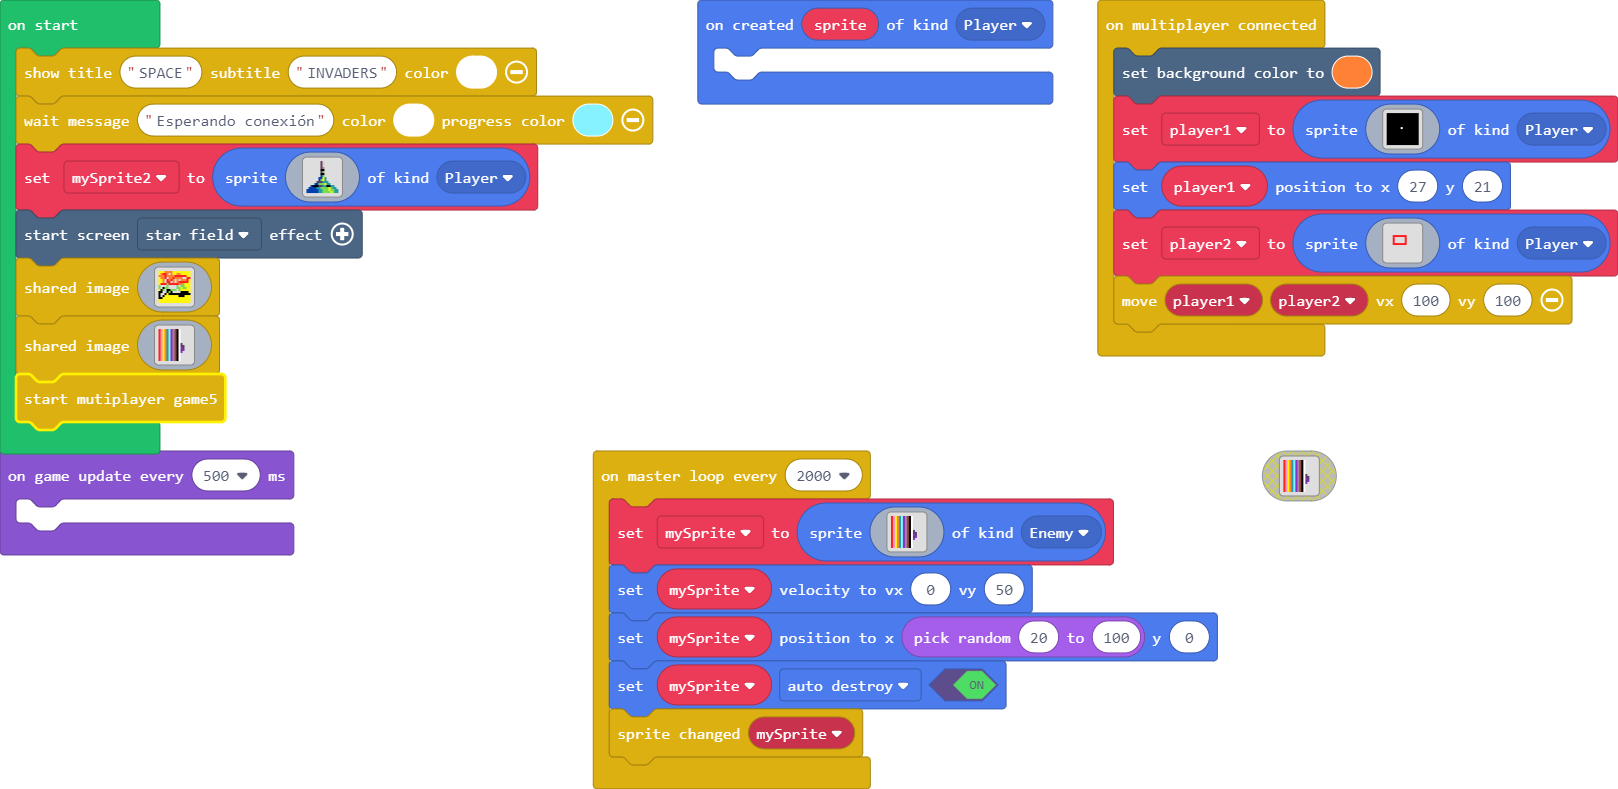
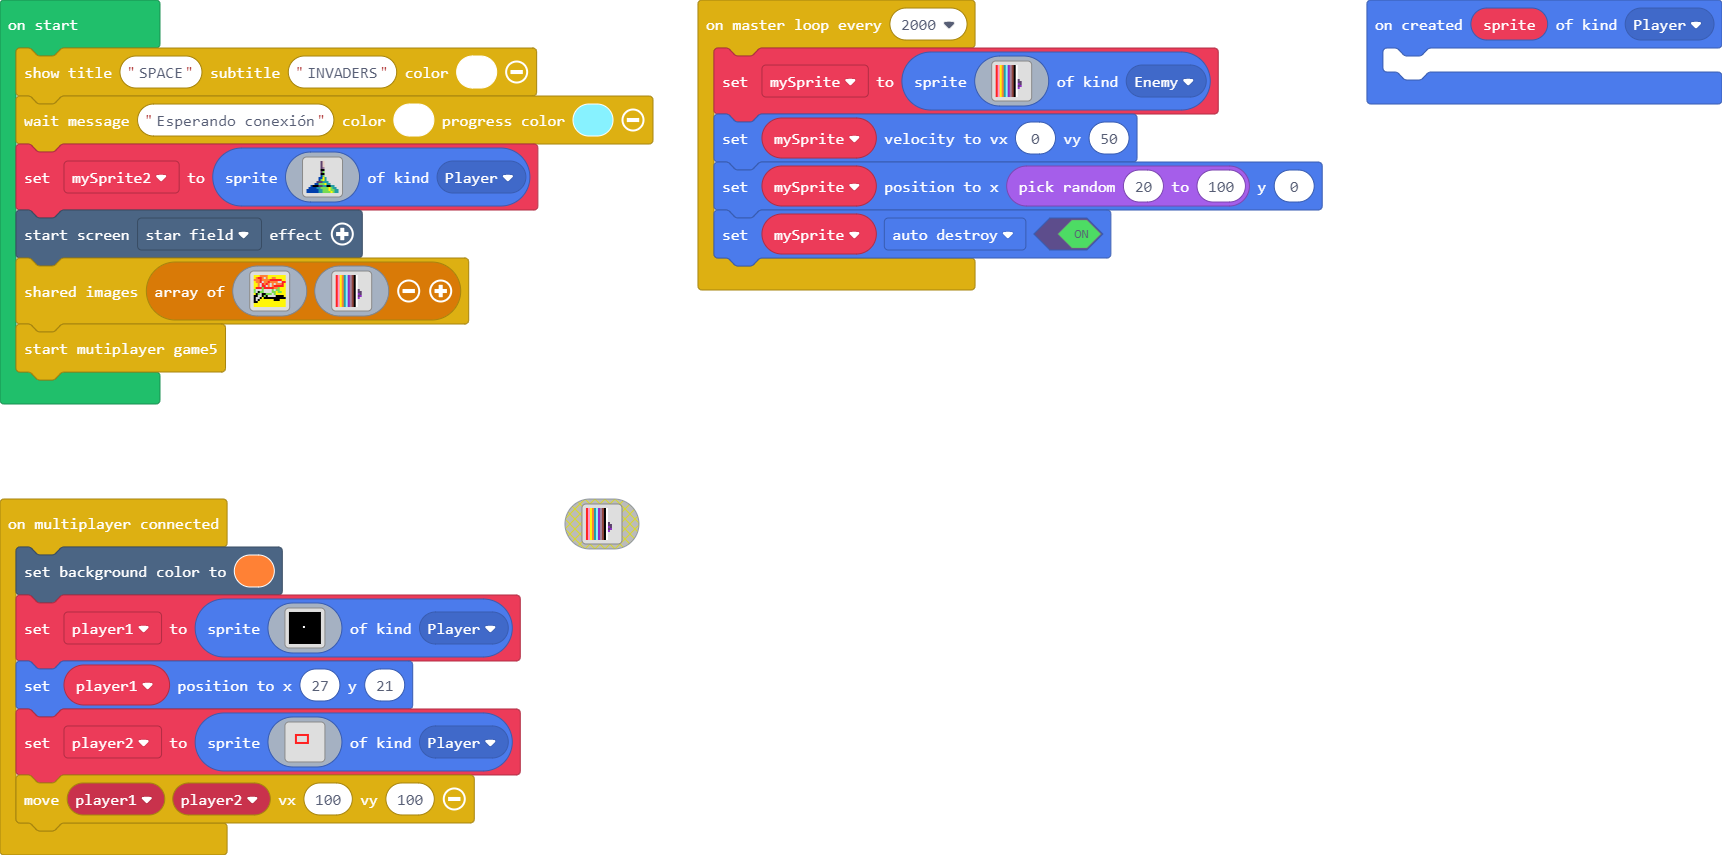
Update pxt.json, main.blocks, main.ts, multiplayer.ts

diff --git a/main.ts b/main.ts
@@ -1,26 +1,25 @@
 multiplayer.onMasterLoop(2000, function () {
     mySprite = sprites.create(img`
-        2 3 5 4 6 9 a b e f 1 . . . . .
-        2 3 5 4 6 9 a b e f 1 . . . . .
-        2 3 5 4 6 9 a b e f 1 . . . . .
-        2 3 5 4 6 9 a b e f 1 . . . . .
-        2 3 5 4 6 9 a b e f 1 . . . . .
-        2 3 5 4 6 9 a b e f 1 . . . . .
-        2 3 5 4 6 9 a b e f 1 . . . . .
-        2 3 5 4 6 9 a b e f 1 c . . . .
-        2 3 5 4 6 9 a b e f 1 c c . . .
-        2 3 5 4 6 9 a b e f 1 a c . . .
-        2 3 5 4 6 9 a b e f 1 c a . . .
-        2 3 5 4 6 9 a b e f 1 a . . . .
-        2 3 5 4 6 9 a b e f 1 . . . . .
-        2 3 5 4 6 9 a b e f 1 . . . . .
-        2 3 5 4 6 9 a b e f 1 . . . . .
-        2 3 5 4 6 9 a b e f 1 . . . . .
-    `, SpriteKind.Enemy)
+2 3 5 4 6 9 a b e f 1 . . . . . 
+2 3 5 4 6 9 a b e f 1 . . . . . 
+2 3 5 4 6 9 a b e f 1 . . . . . 
+2 3 5 4 6 9 a b e f 1 . . . . . 
+2 3 5 4 6 9 a b e f 1 . . . . . 
+2 3 5 4 6 9 a b e f 1 . . . . . 
+2 3 5 4 6 9 a b e f 1 . . . . . 
+2 3 5 4 6 9 a b e f 1 c . . . . 
+2 3 5 4 6 9 a b e f 1 c c . . . 
+2 3 5 4 6 9 a b e f 1 a c . . . 
+2 3 5 4 6 9 a b e f 1 c a . . . 
+2 3 5 4 6 9 a b e f 1 a . . . . 
+2 3 5 4 6 9 a b e f 1 . . . . . 
+2 3 5 4 6 9 a b e f 1 . . . . . 
+2 3 5 4 6 9 a b e f 1 . . . . . 
+2 3 5 4 6 9 a b e f 1 . . . . . 
+`, SpriteKind.Enemy)
     mySprite.setVelocity(0, 50)
     mySprite.setPosition(Math.randomRange(20, 100), 0)
     mySprite.setFlag(SpriteFlag.AutoDestroy, true)
-    multiplayer.spriteChanged(mySprite)
 })
 sprites.onCreated(SpriteKind.Player, function (sprite) {
 	
@@ -28,42 +27,42 @@ sprites.onCreated(SpriteKind.Player, function (sprite) {
 multiplayer.onConnected(function () {
     scene.setBackgroundColor(4)
     player1 = sprites.create(img`
-        f f f f f f f f f f f f f f f f
-        f f f f f f f f f f f f f f f f
-        f f f f f f f f f f f f f f f f
-        f f f f f f f f f f f f f f f f
-        f f f f f f f f f f f f f f f f
-        f f f f f f f f f f f f f f f f
-        f f f f f f f f f f f f f f f f
-        f f f f f f f 1 f f f f f f f f
-        f f f f f f f f f f f f f f f f
-        f f f f f f f f f f f f f f f f
-        f f f f f f f f f f f f f f f f
-        f f f f f f f f f f f f f f f f
-        f f f f f f f f f f f f f f f f
-        f f f f f f f f f f f f f f f f
-        f f f f f f f f f f f f f f f f
-        f f f f f f f f f f f f f f f f
-    `, SpriteKind.Player)
+f f f f f f f f f f f f f f f f 
+f f f f f f f f f f f f f f f f 
+f f f f f f f f f f f f f f f f 
+f f f f f f f f f f f f f f f f 
+f f f f f f f f f f f f f f f f 
+f f f f f f f f f f f f f f f f 
+f f f f f f f f f f f f f f f f 
+f f f f f f f 1 f f f f f f f f 
+f f f f f f f f f f f f f f f f 
+f f f f f f f f f f f f f f f f 
+f f f f f f f f f f f f f f f f 
+f f f f f f f f f f f f f f f f 
+f f f f f f f f f f f f f f f f 
+f f f f f f f f f f f f f f f f 
+f f f f f f f f f f f f f f f f 
+f f f f f f f f f f f f f f f f 
+`, SpriteKind.Player)
     player1.setPosition(27, 21)
     player2 = sprites.create(img`
-        . . . . . . . . . . . . . . . .
-        . . . . . . . . . . . . . . . .
-        . . . . . . . . . . . . . . . .
-        . . . . . . . . . . . . . . . .
-        . . . 2 2 2 2 2 2 2 . . . . . .
-        . . . 2 . . . . . 2 . . . . . .
-        . . . 2 . . . . . 2 . . . . . .
-        . . . 2 . . . . . 2 . . . . . .
-        . . . 2 2 2 2 2 2 2 . . . . . .
-        . . . . . . . . . . . . . . . .
-        . . . . . . . . . . . . . . . .
-        . . . . . . . . . . . . . . . .
-        . . . . . . . . . . . . . . . .
-        . . . . . . . . . . . . . . . .
-        . . . . . . . . . . . . . . . .
-        . . . . . . . . . . . . . . . .
-    `, SpriteKind.Player)
+. . . . . . . . . . . . . . . . 
+. . . . . . . . . . . . . . . . 
+. . . . . . . . . . . . . . . . 
+. . . . . . . . . . . . . . . . 
+. . . 2 2 2 2 2 2 2 . . . . . . 
+. . . 2 . . . . . 2 . . . . . . 
+. . . 2 . . . . . 2 . . . . . . 
+. . . 2 . . . . . 2 . . . . . . 
+. . . 2 2 2 2 2 2 2 . . . . . . 
+. . . . . . . . . . . . . . . . 
+. . . . . . . . . . . . . . . . 
+. . . . . . . . . . . . . . . . 
+. . . . . . . . . . . . . . . . 
+. . . . . . . . . . . . . . . . 
+. . . . . . . . . . . . . . . . 
+. . . . . . . . . . . . . . . . 
+`, SpriteKind.Player)
     multiplayer.movePlayers(player1, player2, 100, 100)
 })
 let player2: Sprite = null
@@ -72,61 +71,57 @@ let mySprite: Sprite = null
 multiplayer.drawTitle("SPACE", "INVADERS", 1)
 multiplayer.waitMessage("Esperando conexión", 1, 9)
 let mySprite2 = sprites.create(img`
-    . . . . . . . c d . . . . . . .
-    . . . . . . . c d . . . . . . .
-    . . . . . . . c d . . . . . . .
-    . . . . . . . c b . . . . . . .
-    . . . . . . . f f . . . . . . .
-    . . . . . . . c 7 . . . . . . .
-    . . . . . . . f f . . . . . . .
-    . . . . . . . 8 7 . . . . . . .
-    . . . . . . 8 8 5 6 . . . . . .
-    . . . . . . 8 7 5 6 . . . . . .
-    . . . . . c c c 6 6 6 . . . . .
-    . . . . 8 8 7 7 7 5 6 6 . . . .
-    . . 8 f f f c c 6 6 f f 6 6 . .
-    . 8 8 8 8 6 6 7 7 7 7 5 7 6 6 .
-    8 8 8 8 8 8 6 6 7 7 7 5 7 7 6 6
-    8 8 8 8 8 8 6 6 7 7 7 7 5 7 6 6
+. . . . . . . c d . . . . . . . 
+. . . . . . . c d . . . . . . . 
+. . . . . . . c d . . . . . . . 
+. . . . . . . c b . . . . . . . 
+. . . . . . . f f . . . . . . . 
+. . . . . . . c 7 . . . . . . . 
+. . . . . . . f f . . . . . . . 
+. . . . . . . 8 7 . . . . . . . 
+. . . . . . 8 8 5 6 . . . . . . 
+. . . . . . 8 7 5 6 . . . . . . 
+. . . . . c c c 6 6 6 . . . . . 
+. . . . 8 8 7 7 7 5 6 6 . . . . 
+. . 8 f f f c c 6 6 f f 6 6 . . 
+. 8 8 8 8 6 6 7 7 7 7 5 7 6 6 . 
+8 8 8 8 8 8 6 6 7 7 7 5 7 7 6 6 
+8 8 8 8 8 8 6 6 7 7 7 7 5 7 6 6 
 `, SpriteKind.Player)
 effects.starField.startScreenEffect()
-multiplayer.myFunction(img`
-    5 5 5 4 4 4 4 5 5 5 5 5 5 5 5 5
-    5 4 2 2 4 . 4 5 5 4 4 5 5 5 5 5
-    4 4 4 2 4 4 4 4 2 2 2 2 2 2 5 5
-    5 4 4 2 . 4 4 2 4 4 4 4 . . 2 2
-    5 5 4 . 2 4 2 4 . 4 . 4 4 4 2 5
-    5 5 4 . 2 2 . 4 . 4 2 2 2 2 2 5
-    5 2 2 2 7 2 2 2 2 2 4 4 7 5 5 5
-    7 . . . 7 . . . . 7 . 7 7 5 5 5
-    7 . f 7 7 . . . . 7 7 5 7 7 5 5
-    5 f 7 . f f 7 7 7 . 7 5 5 5 5 5
-    f f . . f 7 f . . . . f f f f 5
-    f . . f 5 f f f f f f f f f f f
-    f . f 5 5 5 5 5 5 5 f f f 5 5 5
-    f f 5 5 5 5 5 5 5 5 5 5 5 5 5 5
-    5 5 5 5 5 5 5 5 5 5 5 5 5 5 5 5
-    5 5 5 5 5 5 5 5 5 5 5 5 5 5 5 5
-`)
-multiplayer.myFunction(img`
-    2 3 5 4 6 9 a b e f 1 . . . . .
-    2 3 5 4 6 9 a b e f 1 . . . . .
-    2 3 5 4 6 9 a b e f 1 . . . . .
-    2 3 5 4 6 9 a b e f 1 . . . . .
-    2 3 5 4 6 9 a b e f 1 . . . . .
-    2 3 5 4 6 9 a b e f 1 . . . . .
-    2 3 5 4 6 9 a b e f 1 . . . . .
-    2 3 5 4 6 9 a b e f 1 c . . . .
-    2 3 5 4 6 9 a b e f 1 c c . . .
-    2 3 5 4 6 9 a b e f 1 a c . . .
-    2 3 5 4 6 9 a b e f 1 c a . . .
-    2 3 5 4 6 9 a b e f 1 a . . . .
-    2 3 5 4 6 9 a b e f 1 . . . . .
-    2 3 5 4 6 9 a b e f 1 . . . . .
-    2 3 5 4 6 9 a b e f 1 . . . . .
-    2 3 5 4 6 9 a b e f 1 . . . . .
-`)
+multiplayer.sharedImgs([img`
+5 5 5 4 4 4 4 5 5 5 5 5 5 5 5 5 
+5 4 2 2 4 . 4 5 5 4 4 5 5 5 5 5 
+4 4 4 2 4 4 4 4 2 2 2 2 2 2 5 5 
+5 4 4 2 . 4 4 2 4 4 4 4 . . 2 2 
+5 5 4 . 2 4 2 4 . 4 . 4 4 4 2 5 
+5 5 4 . 2 2 . 4 . 4 2 2 2 2 2 5 
+5 2 2 2 7 2 2 2 2 2 4 4 7 5 5 5 
+7 . . . 7 . . . . 7 . 7 7 5 5 5 
+7 . f 7 7 . . . . 7 7 5 7 7 5 5 
+5 f 7 . f f 7 7 7 . 7 5 5 5 5 5 
+f f . . f 7 f . . . . f f f f 5 
+f . . f 5 f f f f f f f f f f f 
+f . f 5 5 5 5 5 5 5 f f f 5 5 5 
+f f 5 5 5 5 5 5 5 5 5 5 5 5 5 5 
+5 5 5 5 5 5 5 5 5 5 5 5 5 5 5 5 
+5 5 5 5 5 5 5 5 5 5 5 5 5 5 5 5 
+`, img`
+2 3 5 4 6 9 a b e f 1 . . . . . 
+2 3 5 4 6 9 a b e f 1 . . . . . 
+2 3 5 4 6 9 a b e f 1 . . . . . 
+2 3 5 4 6 9 a b e f 1 . . . . . 
+2 3 5 4 6 9 a b e f 1 . . . . . 
+2 3 5 4 6 9 a b e f 1 . . . . . 
+2 3 5 4 6 9 a b e f 1 . . . . . 
+2 3 5 4 6 9 a b e f 1 c . . . . 
+2 3 5 4 6 9 a b e f 1 c c . . . 
+2 3 5 4 6 9 a b e f 1 a c . . . 
+2 3 5 4 6 9 a b e f 1 c a . . . 
+2 3 5 4 6 9 a b e f 1 a . . . . 
+2 3 5 4 6 9 a b e f 1 . . . . . 
+2 3 5 4 6 9 a b e f 1 . . . . . 
+2 3 5 4 6 9 a b e f 1 . . . . . 
+2 3 5 4 6 9 a b e f 1 . . . . . 
+`])
 multiplayer.multiPlayerStart()
-game.onUpdateInterval(500, function () {
-	
-})

diff --git a/multiplayer.ts b/multiplayer.ts
@@ -91,6 +91,20 @@ function test(){
     }
 
 
+    
+    //% blockId=sharedImgsb
+    //% block="shared images %img"
+    //% img.shadow="lists_create_with"
+    export function sharedImgs(img: Image[]): void {
+
+        img.forEach(function (value: Image, index: number) {
+            images[imageCRC(value)] = value;
+            console.log("IMAGEN " + index)
+        });
+
+    }
+
+
     //% blockId=multiPlayerStart
     //% block="start mutiplayer game5"
     export function multiPlayerStart():void {
@@ -233,9 +247,40 @@ function test(){
     game.onUpdateInterval(100, () => {
         if (  programState == ProgramState.Playing && useHWMultiplayer ){
             sendPlayerState();
+
+              if (newCreated.length) {
+                console.log("Sprites created " + newCreated.length)
+
+                const sprite: Sprite = newCreated[newCreated.length - 1];
+
+                const packet = new SocketPacket();
+                packet.arg1 = GameMessage.CreateSprite;
+                packet.arg2 = 0;
+                packet.arg3 = sprite.x;
+                packet.arg4 = sprite.y;
+                packet.arg5 = sprite.vx;
+                packet.arg6 = sprite.vy;
+                packet.arg7 = imageCRC(sprite.image);
+
+
+                socket.sendCustomMessage(packet);
+
+                newCreated.pop();
+
+
+            }
         }
-        //this.sendPlayerState();
+       
     });
+
+     let newCreated:Sprite[]=[];
+
+    sprites.onCreated(SpriteKind.Enemy, function (sprite) {
+        
+        newCreated.push(sprite);
+
+    })
+
 
 
    
